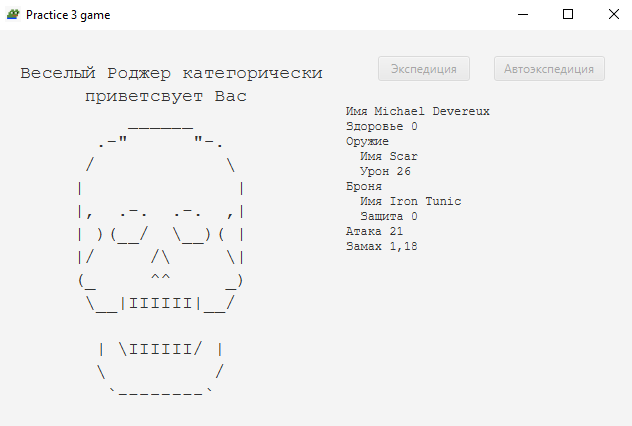
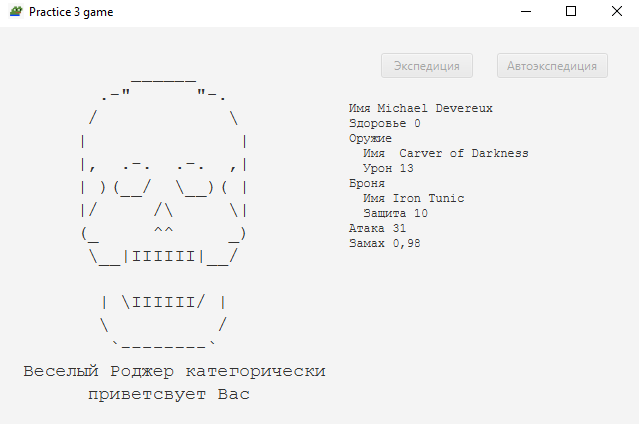
Change autoExpedition logic, balance

diff --git a/src/com/company/practice3/game/gui/AsciiArt.kt b/src/com/company/practice3/game/gui/AsciiArt.kt
@@ -37,9 +37,7 @@ object AsciiArt {
  """
     @JvmField
     val deathAnimation = arrayOf(
-"""Веселый Роджер категорически
-      приветсвует Вас
-          ______
+"""          ______
        .-"      "-.
       /            \
      |              |
@@ -52,13 +50,10 @@ object AsciiArt {
        \          /
         `--------`
 
-
-
- 
-""",
-"""Веселый Роджер категорически
+Веселый Роджер категорически
       приветсвует Вас
-          ______
+""",
+"""          ______
        .-"      "-.
       /            \
      |              |
@@ -71,9 +66,8 @@ object AsciiArt {
        | \IIIIII/ |
        \          /
         `--------`
-
-
- 
+Веселый Роджер категорически
+      приветсвует Вас
 """,
     )
 }

diff --git a/src/com/company/practice3/game/objects/expeditions/AutoExpeditionController.java b/src/com/company/practice3/game/objects/expeditions/AutoExpeditionController.java
@@ -1,34 +1,33 @@
 package com.company.practice3.game.objects.expeditions;
 
 import com.company.practice3.game.logic.FightLogic;
+import com.company.practice3.game.objects.Factory;
 import com.company.practice3.game.objects.creatures.Character;
 import com.company.practice3.game.objects.creatures.Mob;
 import com.company.practice3.game.gui.AsciiArt;
 import javafx.application.Platform;
 import javafx.scene.control.Button;
 import javafx.scene.control.Label;
-import lombok.Data;
-import lombok.NonNull;
+import lombok.Value;
 
+import java.util.ArrayList;
 import java.util.concurrent.TimeUnit;
 import java.util.concurrent.locks.ReentrantLock;
 
-@Data
+@Value
 public class AutoExpeditionController implements Runnable{
 
-    @NonNull private final Character character;
+    Character character;
 
-    @NonNull private final Label fieldLbl;
+    Label fieldLbl;
 
-    @NonNull private final Label equipmentLbl;
+    Label equipmentLbl;
 
-    @NonNull private final Button expeditionBtn;
+    Button expeditionBtn;
 
-    @NonNull private final Button autoExpeditionBtn;
+    Button autoExpeditionBtn;
 
-    @NonNull private final ReentrantLock lock;
-
-    @NonNull private final Mob mob;
+    ReentrantLock lock;
 
     @Override
     public void run() {
@@ -38,13 +37,16 @@ public class AutoExpeditionController implements Runnable{
         Platform.runLater(() -> expeditionBtn.setDisable(true));
         Platform.runLater(() -> autoExpeditionBtn.setDisable(true));
         Platform.runLater(() -> fieldLbl.setText(AsciiArt.autoExpedition));
-        character.takeDamage(mob.getAtk() * 4);
-        character.castHealSpell();
-        FightLogic.lootMob(character, mob);
-        try {
-            TimeUnit.SECONDS.sleep(1);
-        } catch (InterruptedException e) {
-            e.printStackTrace();
+        ArrayList<Mob> mobs = Factory.newRandomMobs();
+        for(Mob mob: mobs) {
+            FightLogic.autoFight(character, mob);
+            if (!character.isAlive()) break;
+            character.castHealSpell();
+            try {
+                TimeUnit.SECONDS.sleep(1);
+            } catch (InterruptedException e) {
+                e.printStackTrace();
+            }
         }
         Platform.runLater(() -> equipmentLbl.setText(character.printStats()));
         Platform.runLater(() -> expeditionBtn.setDisable(false));

diff --git a/src/com/company/practice3/game/objects/creatures/Creature.java b/src/com/company/practice3/game/objects/creatures/Creature.java
@@ -3,20 +3,22 @@ package com.company.practice3.game.objects.creatures;
 import com.company.practice3.game.objects.GameObject;
 import com.company.practice3.game.objects.equipment.Equipment;
 import lombok.*;
+import lombok.experimental.FieldDefaults;
 import org.jetbrains.annotations.NotNull;
 
 @EqualsAndHashCode(callSuper = true)
 @Data
-@NoArgsConstructor
+@AllArgsConstructor
+@FieldDefaults(level = AccessLevel.PRIVATE)
 public abstract class Creature extends GameObject {
 
-    private int hp;
+    int hp;
 
-    @NonNull private Equipment equipment;
+    Equipment equipment;
 
-    private int atk;
+    int atk;
 
-    private double aps;
+    double aps;
 
     public Creature(String name, int hp, @NotNull Equipment equipment, int atk, double aps) {
         super(name);
@@ -34,7 +36,7 @@ public abstract class Creature extends GameObject {
             setHp(0);
             return;
         }
-        setHp(getHp() - 1);
+        setHp(getHp() - atk);
     }
 
     public boolean isAlive(){

diff --git a/src/com/company/practice3/game/objects/expeditions/ExpeditionController.java b/src/com/company/practice3/game/objects/expeditions/ExpeditionController.java
@@ -7,26 +7,27 @@ import javafx.scene.control.Button;
 import javafx.scene.control.Label;
 import lombok.Data;
 import lombok.NonNull;
+import lombok.Value;
 
 import java.util.concurrent.TimeUnit;
 import java.util.concurrent.locks.ReentrantLock;
 
-@Data
+@Value
 public class ExpeditionController implements Runnable{
 
-    @NonNull private final Field field;
+    Field field;
 
-    @NonNull private final Character character;
+    Character character;
 
-    @NonNull private final Label fieldLbl;
+    Label fieldLbl;
 
-    @NonNull private final Label equipmentLbl;
+    Label equipmentLbl;
 
-    @NonNull private final Button expeditionBtn;
+    Button expeditionBtn;
 
-    @NonNull private final Button autoExpeditionBtn;
+    Button autoExpeditionBtn;
 
-    @NonNull private final ReentrantLock lock;
+    ReentrantLock lock;
 
     @Override
     public void run() {

diff --git a/src/com/company/practice3/game/gui/GameController.java b/src/com/company/practice3/game/gui/GameController.java
@@ -5,26 +5,31 @@ import com.company.practice3.game.objects.creatures.Character;
 import javafx.fxml.FXML;
 import javafx.scene.control.Button;
 import javafx.scene.control.Label;
+import lombok.AccessLevel;
+import lombok.Getter;
+import lombok.experimental.FieldDefaults;
 
 import java.util.concurrent.locks.ReentrantLock;
 
+@Getter
+@FieldDefaults(level = AccessLevel.PRIVATE)
 public class GameController {
 
-    private ReentrantLock mutex;
+    ReentrantLock mutex;
 
-    private Character character;
-
-    @FXML
-    private Label battleField;
+    Character character;
 
     @FXML
-    private Label equipment;
+    Label battleField;
 
     @FXML
-    private Button expedition;
+    Label equipment;
 
     @FXML
-    private Button autoExpedition;
+    Button expedition;
+
+    @FXML
+    Button autoExpedition;
 
     @FXML
     private void initialize(){

diff --git a/src/com/company/practice3/game/gui/BaseAnimationController.java b/src/com/company/practice3/game/gui/BaseAnimationController.java
@@ -4,24 +4,23 @@ import com.company.practice3.game.objects.creatures.Character;
 import javafx.application.Platform;
 import javafx.scene.control.Button;
 import javafx.scene.control.Label;
-import lombok.Data;
-import lombok.NonNull;
+import lombok.Value;
 
 import java.util.concurrent.TimeUnit;
 import java.util.concurrent.locks.ReentrantLock;
 
-@Data
+@Value
 public class BaseAnimationController implements Runnable {
 
-    @NonNull private final Character character;
+    Character character;
 
-    @NonNull private final Label field;
+    Label field;
 
-    @NonNull private final Button expedition;
+    Button expedition;
 
-    @NonNull private final Button autoExpedition;
+    Button autoExpedition;
 
-    @NonNull private final ReentrantLock lock;
+    ReentrantLock lock;
 
     @Override
     public void run() {

diff --git a/src/com/company/practice3/game/objects/RandomParameters.java b/src/com/company/practice3/game/objects/RandomParameters.java
@@ -33,7 +33,7 @@ class RandomParameters {
     }
 
     public int damage(){
-        return random.nextInt(15) + 15;
+        return random.nextInt(10) + 5;
     }
 
     public int hp(){
@@ -41,7 +41,7 @@ class RandomParameters {
     }
 
     public int atk(){
-        return random.nextInt(5) + 20;
+        return random.nextInt(5) + 30;
     }
 
     public double aps(){
@@ -49,7 +49,7 @@ class RandomParameters {
     }
 
     public int def(){
-        return random.nextInt(5);
+        return random.nextInt(10) + 1;
     }
 
     public int rows(){
@@ -61,7 +61,7 @@ class RandomParameters {
     }
 
     public int mobsAmmount(){
-        return random.nextInt(5) + 5;
+        return random.nextInt(2) + 3;
     }
 
     public int healStrength(){

diff --git a/src/com/company/practice3/game/logic/FightLogic.java b/src/com/company/practice3/game/logic/FightLogic.java
@@ -33,6 +33,19 @@ public class FightLogic {
 
     }
 
+    public void autoFight(Character character, Mob mob) {
+        while (character.isAlive() && mob.isAlive()){
+            if(ThreadLocalRandom.current().nextBoolean()) {
+                mob.takeDamage(character.getAtk() + character.getEquipment().getWeapon().getDamage());
+            }
+            else {
+                character.takeDamage(mob.getAtk() + mob.getEquipment().getWeapon().getDamage());
+            }
+        }
+        if (character.isAlive())
+            lootMob(character, mob);
+    }
+
     public void lootMob(Character character, Mob mob){
         Equipment charcterEquipment = character.getEquipment();
         Equipment mobEquipment = mob.getEquipment();

diff --git a/src/com/company/practice3/game/objects/creatures/CharacterController.java b/src/com/company/practice3/game/objects/creatures/CharacterController.java
@@ -2,13 +2,16 @@ package com.company.practice3.game.objects.creatures;
 
 import com.company.practice3.game.logic.ExpeditionLogic;
 import com.company.practice3.game.objects.expeditions.Field;
+import lombok.AccessLevel;
+import lombok.experimental.FieldDefaults;
 
 
+@FieldDefaults(level = AccessLevel.PRIVATE)
 public class CharacterController implements Runnable{
 
-    private Field field;
+    Field field;
 
-    private Character character;
+    Character character;
 
     public CharacterController(Character character, Field field) {
         this.character = character;

diff --git a/src/com/company/practice3/game/objects/creatures/Character.java b/src/com/company/practice3/game/objects/creatures/Character.java
@@ -31,11 +31,16 @@ public class Character extends Creature {
     }
 
     public void castHealSpell(){
-        if (getEquipment().getSpells().size() > 0){
+        if (getEquipment().getSpells().size() > 0 && getHp() < 100){
             Spell spell = getEquipment().getSpells().stream().findFirst().get();
             setHp(getHp() + spell.cast());
             getEquipment().getSpells().remove(spell);
         }
+    }
+
+    @Override
+    public void takeDamage(int atk) {
+        super.takeDamage(atk / 2 );
     }
 
     @Override

diff --git a/src/com/company/practice3/game/objects/Factory.java b/src/com/company/practice3/game/objects/Factory.java
@@ -67,6 +67,6 @@ public class Factory {
     }
 
     public AutoExpeditionController newRandomAutoExpedtionController(Character character, Label field, Label equipment, Button expeditionButton, Button autoExpedition, ReentrantLock lock){
-        return new AutoExpeditionController(character, field, equipment, expeditionButton, autoExpedition, lock, newRandomMob());
+        return new AutoExpeditionController(character, field, equipment, expeditionButton, autoExpedition, lock);
     }
 }

diff --git a/src/com/company/practice3/game/objects/equipment/Weapon.java b/src/com/company/practice3/game/objects/equipment/Weapon.java
@@ -1,16 +1,13 @@
 package com.company.practice3.game.objects.equipment;
 
 import com.company.practice3.game.objects.GameObject;
-import lombok.Data;
-import lombok.EqualsAndHashCode;
-import lombok.NoArgsConstructor;
+import lombok.*;
 
 @EqualsAndHashCode(callSuper = true)
 @Data
-@NoArgsConstructor
 public class Weapon extends GameObject {
 
-    private int damage;
+    @NonNull private int damage;
 
     public Weapon(String name, int damage) {
         super(name);
